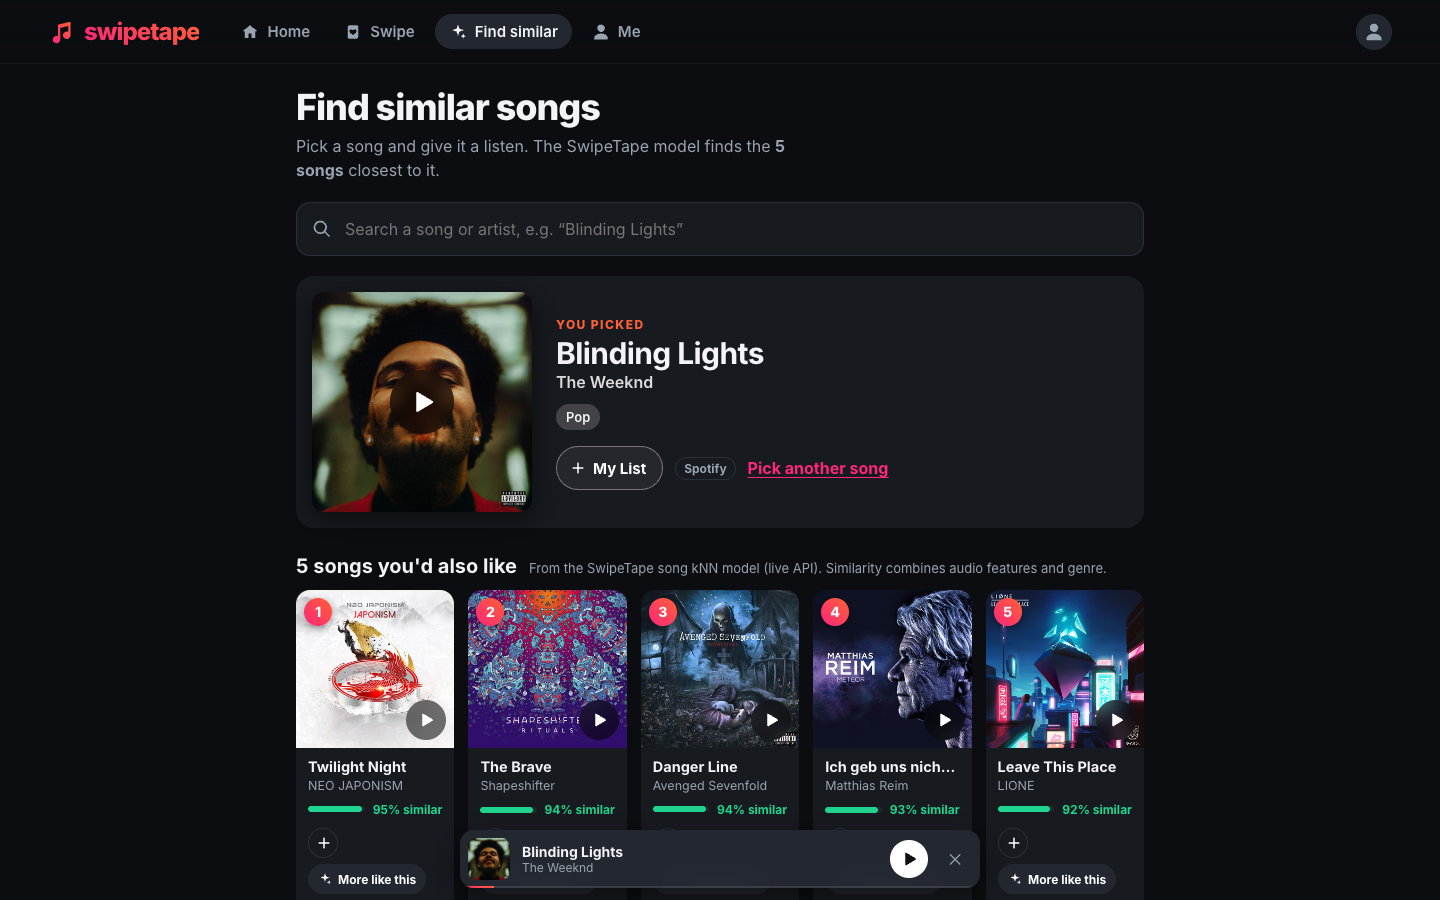
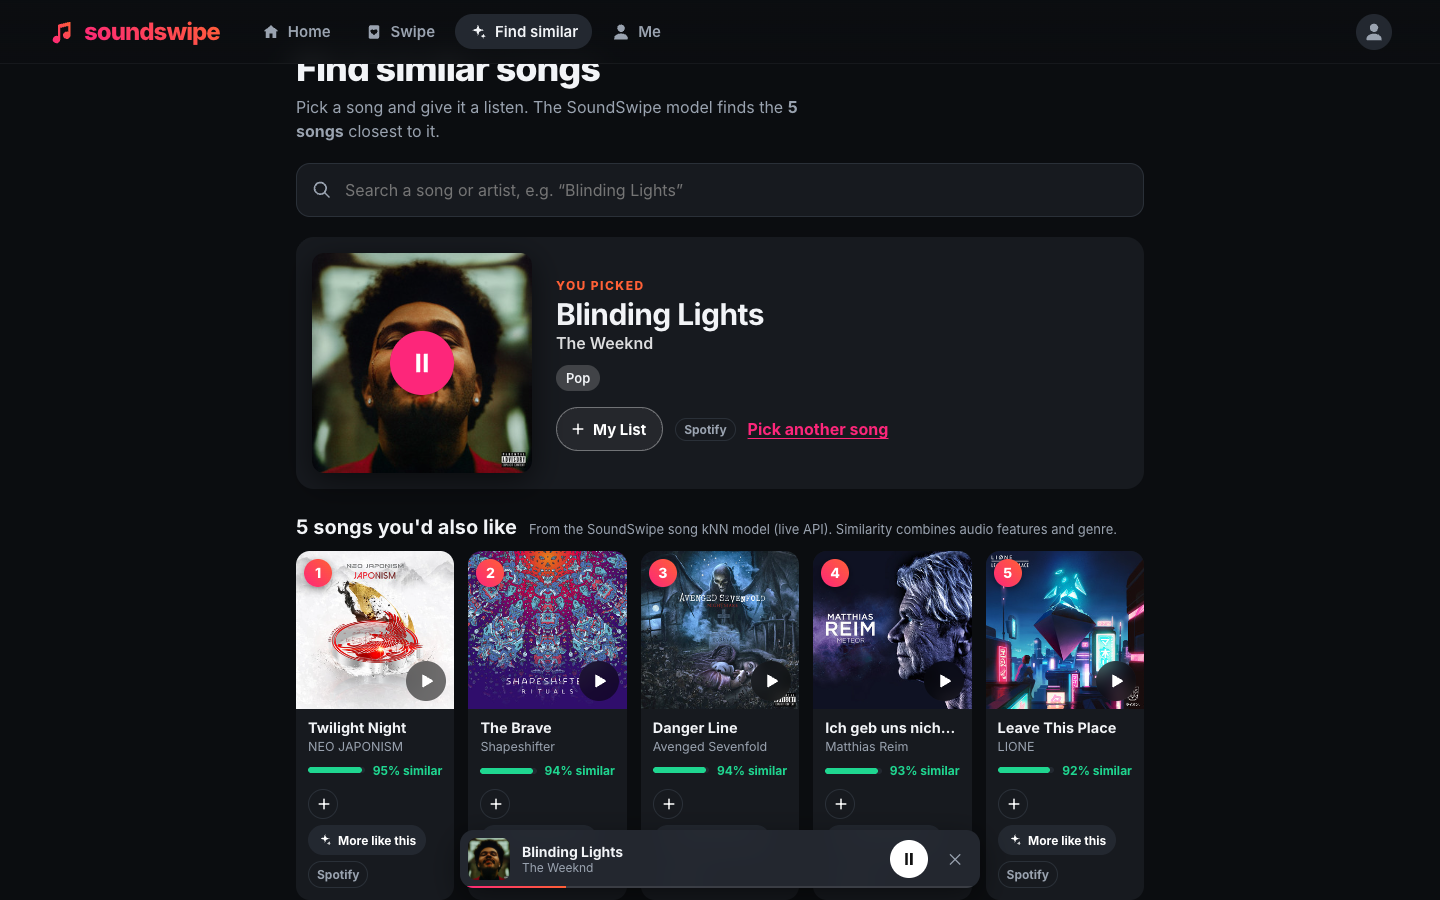
D5: retake app screenshots with SoundSwipe name, add error-state and phone screenshots, Postman re-run 23/23 (Nov 25)

Changed region(s): [[0.0625, 0.0, 0.8125, 0.9956], [0.6875, 0.9333, 0.7812, 0.9956]]

diff --git a/docs/D5_app.md b/docs/D5_app.md
@@ -8,7 +8,7 @@
 | Live API (Modal) | https://bigb2405--swipetape-api-web.us-east.modal.run · [/docs](https://bigb2405--swipetape-api-web.us-east.modal.run/docs) |
 | Frontend code | [`public/`](../public/): `index.html`, `style.css`, `config.js`, `js/*.js` |
 | Postman collection | [`postman/swipetape_api.postman_collection.json`](../postman/swipetape_api.postman_collection.json) (10 requests, 29 assertion lines) |
-| Screenshots | [`docs/d5_screenshots/`](d5_screenshots/) |
+| Screenshots | [`docs/d5_screenshots/`](d5_screenshots/): app `1_`–`5_` (retaken Nov 25 with the SoundSwipe name), Postman `6_`–`8_`, API-unreachable error state `9_`, phone layout `10_` |
 | Tag | `d5-final` |
 
 ## What the app does
@@ -57,8 +57,8 @@ The fitted pipeline (`pipeline.joblib`) is the same one as in D4. It was not ret
 
 ## Tests
 
-1. **Postman** (deployed URL, 10 requests, all with assertions): health (200, model loaded, under 5 s), pipeline info (steps, versions, catalog size), sample (stores ids), valid recommend (200, k items, no swiped songs), empty `liked_ids` (422), `k` out of range (422), unknown track id (422), valid search (best match first), too-short search (422), and **Find similar** with one seed and `k=5` (exactly 5 songs, sorted by score, none is the seed). **Result (Postman web Collection Runner, Nov 18, 2026): 23/23 tests passed, 0 failed, average response 224 ms** (`docs/d5_screenshots/6_*`–`8_*`). An earlier run on a cold container passed 22/23: `/health` took 10.2 s (Modal loading the model) and failed the "under 5 s" check. The app handles this with its "Waking up the model…" message, and the frontend sends a warm-up `/health` request when it loads.
-2. **`scripts/check_deployed.py`** against the Modal URL: the deployed API returns the same tracks, order and scores (within 1e-4) as the local pipeline, all invalid inputs return 422, search matches the local results, and a CORS preflight from a `vercel.app` origin is allowed. **ALL CHECKS PASSED** (Nov 18, 2026).
+1. **Postman** (deployed URL, 10 requests, all with assertions): health (200, model loaded, under 5 s), pipeline info (steps, versions, catalog size), sample (stores ids), valid recommend (200, k items, no swiped songs), empty `liked_ids` (422), `k` out of range (422), unknown track id (422), valid search (best match first), too-short search (422), and **Find similar** with one seed and `k=5` (exactly 5 songs, sorted by score, none is the seed). **Result (Postman web Collection Runner, Nov 18, 2026): 23/23 tests passed, 0 failed, average response 224 ms** (`docs/d5_screenshots/6_*`–`8_*`). **Re-run Nov 25, 2026 (newman CLI, same collection, deployed URL): 23/23 assertions passed, 10/10 requests, average response 86 ms.** An earlier run on a cold container passed 22/23: `/health` took 10.2 s (Modal loading the model) and failed the "under 5 s" check. The app handles this with its "Waking up the model…" message, and the frontend sends a warm-up `/health` request when it loads.
+2. **`scripts/check_deployed.py`** against the Modal URL: the deployed API returns the same tracks, order and scores (within 1e-4) as the local pipeline, all invalid inputs return 422, search matches the local results, and a CORS preflight from a `vercel.app` origin is allowed. **ALL CHECKS PASSED** (Nov 18, re-checked Nov 25, 2026).
 3. **pytest**: 23 tests (15 from D4, plus search, invalid search, 503 search and CORS allow/deny). All pass.
 4. **Browser checks** (desktop 1440×900 and phone 390×844): Home rows, search, the Find similar 5 results, a full swipe round with the playlist coming from the API, the detail sheet, the tab bar on phones, and the error and offline states with the API stopped.
 
